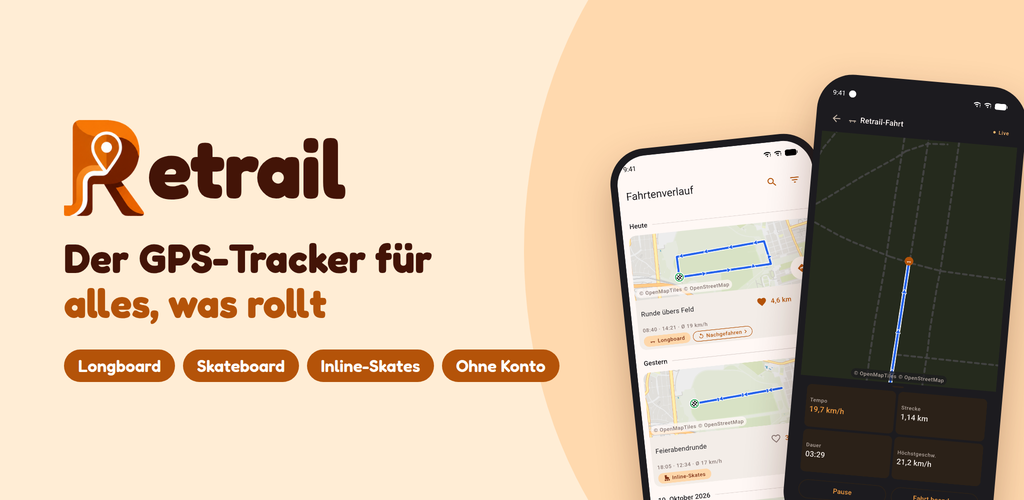
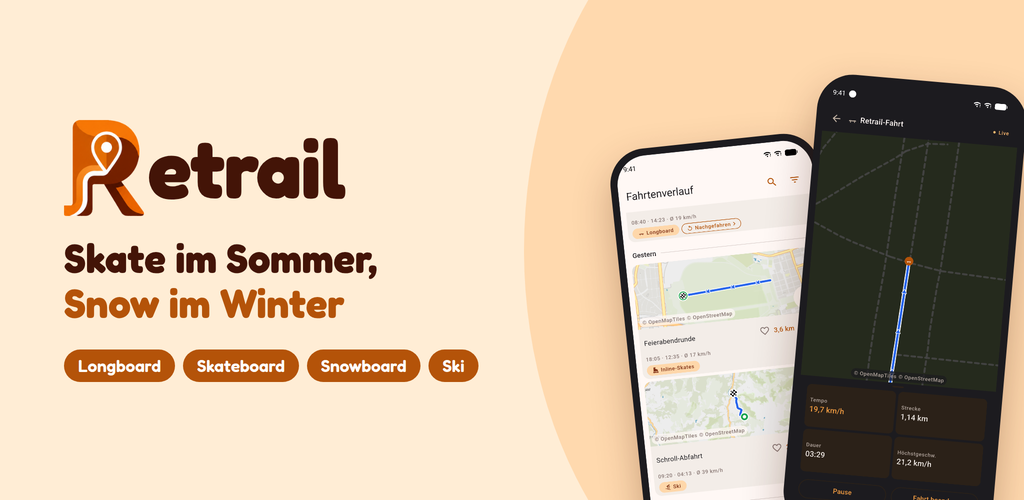
docs(store): put the Skate & Snow line and the snow chips on the Play feature graphic (#94)

diff --git a/store/play/feature_graphic.html b/store/play/feature_graphic.html
@@ -46,10 +46,10 @@
 
   <script>
     const copy = {
-      en: { tagline: 'The GPS tracker for<br><em>everything on wheels</em>',
-            chips: ['Longboard', 'Skateboard', 'Inline skates', 'No account'] },
-      de: { tagline: 'Der GPS-Tracker für<br><em>alles, was rollt</em>',
-            chips: ['Longboard', 'Skateboard', 'Inline-Skates', 'Ohne Konto'] },
+      en: { tagline: 'Skate in summer,<br><em>snow in winter</em>',
+            chips: ['Longboard', 'Skateboard', 'Snowboard', 'Ski'] },
+      de: { tagline: 'Skate im Sommer,<br><em>Snow im Winter</em>',
+            chips: ['Longboard', 'Skateboard', 'Snowboard', 'Ski'] },
     };
     const lang = new URLSearchParams(location.search).get('lang') || 'en';
     document.documentElement.lang = lang;
